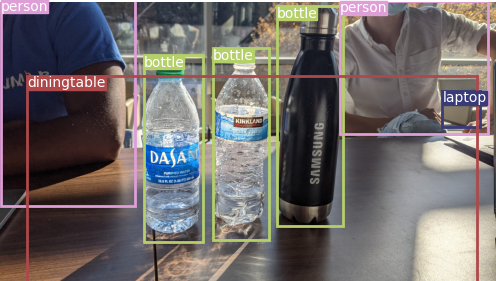
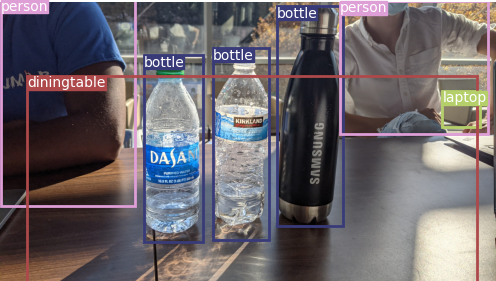
run demo

Changed region(s): [[0.2722, 0.0, 0.6956, 0.8826], [0.877, 0.3132, 0.998, 0.484]]

diff --git a/pytorchyolo/templates/demo.html b/pytorchyolo/templates/demo.html
@@ -6,6 +6,13 @@ form {
     text-align: center;
     margin: auto;
 }
+img{
+	display: block;
+  margin-left: auto;
+  margin-right: auto;
+  width: 40%;
+  margin-bottom: 10px;
+}
 </style>
 <title>JDF 1356 Demo</title>
 

diff --git a/app.py b/app.py
@@ -1,0 +1,57 @@
+from flask import Flask, render_template, flash, request, redirect, url_for
+from werkzeug.utils import secure_filename
+import os
+
+import detect
+
+UPLOAD_FOLDER = './../data/samples'
+ALLOWED_EXTENSIONS = set(['txt', 'pdf', 'png', 'jpg', 'jpeg', 'gif'])
+
+app = Flask(__name__)
+
+app.config['UPLOAD_FOLDER'] = UPLOAD_FOLDER
+def allowed_file(filename):
+    return '.' in filename and \
+           filename.rsplit('.', 1)[1].lower() in ALLOWED_EXTENSIONS
+
+@app.route('/', methods=['GET', 'POST'])
+#def hello_world():  # put application's code here
+#    #print(os.chdir())
+#    return render_template('demo.html')#'Hello World!'
+
+
+#https://stackoverflow.com/questions/44926465/upload-image-in-flask
+def upload_file():
+    # maybe clear the folder before running inference?
+
+    if request.method == 'POST':
+        print("POST method reached")
+        # check if the post request has the file part
+        if 'file' not in request.files:
+            flash('No file part')
+            return redirect(request.url)
+        file = request.files['file']
+        # if user does not select file, browser also
+        # submit a empty part without filename
+        if file.filename == '':
+            flash('No selected file')
+            return redirect(request.url)
+        if file and allowed_file(file.filename):
+            filename = secure_filename(file.filename)
+            print('filename:', filename)
+            file.save(os.path.join(app.config['UPLOAD_FOLDER'], filename))
+
+        # call the inference function
+        #run()
+        detect.run()
+        #exec('pytorchyolo/detect.py')
+        # display the html
+    return render_template('demo.html')    
+
+
+
+
+if __name__ == '__main__':
+    #print(os.listdir())
+    
+    app.run()
